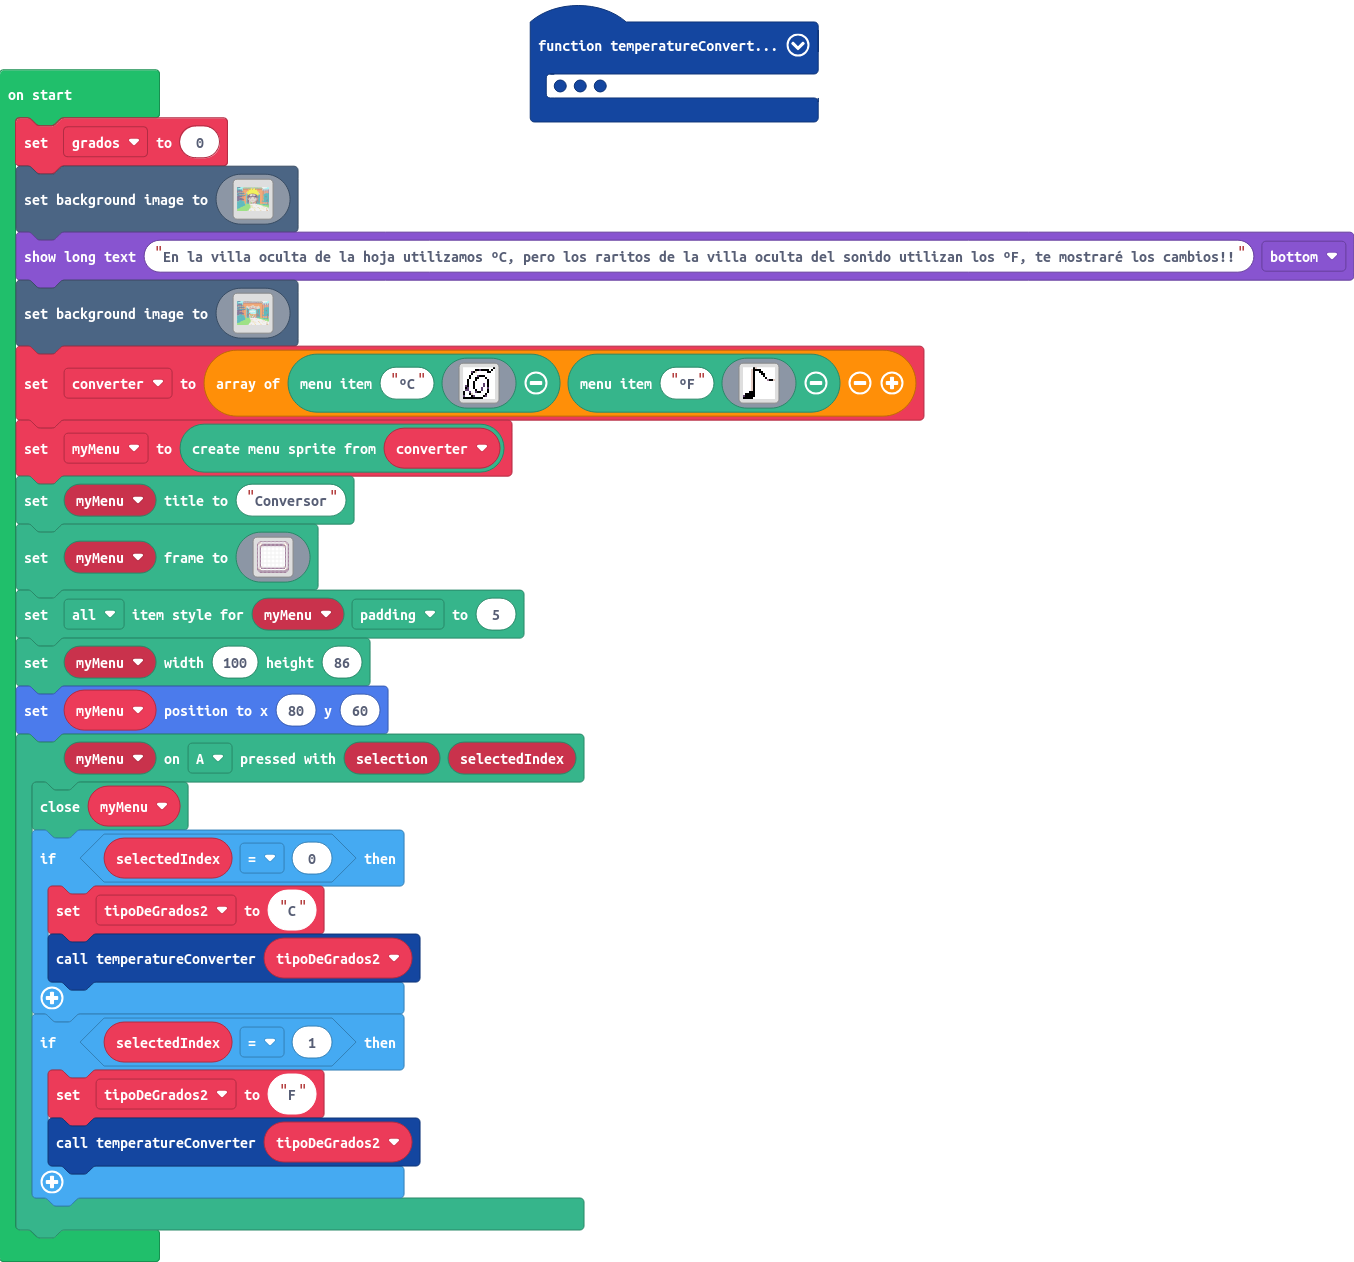
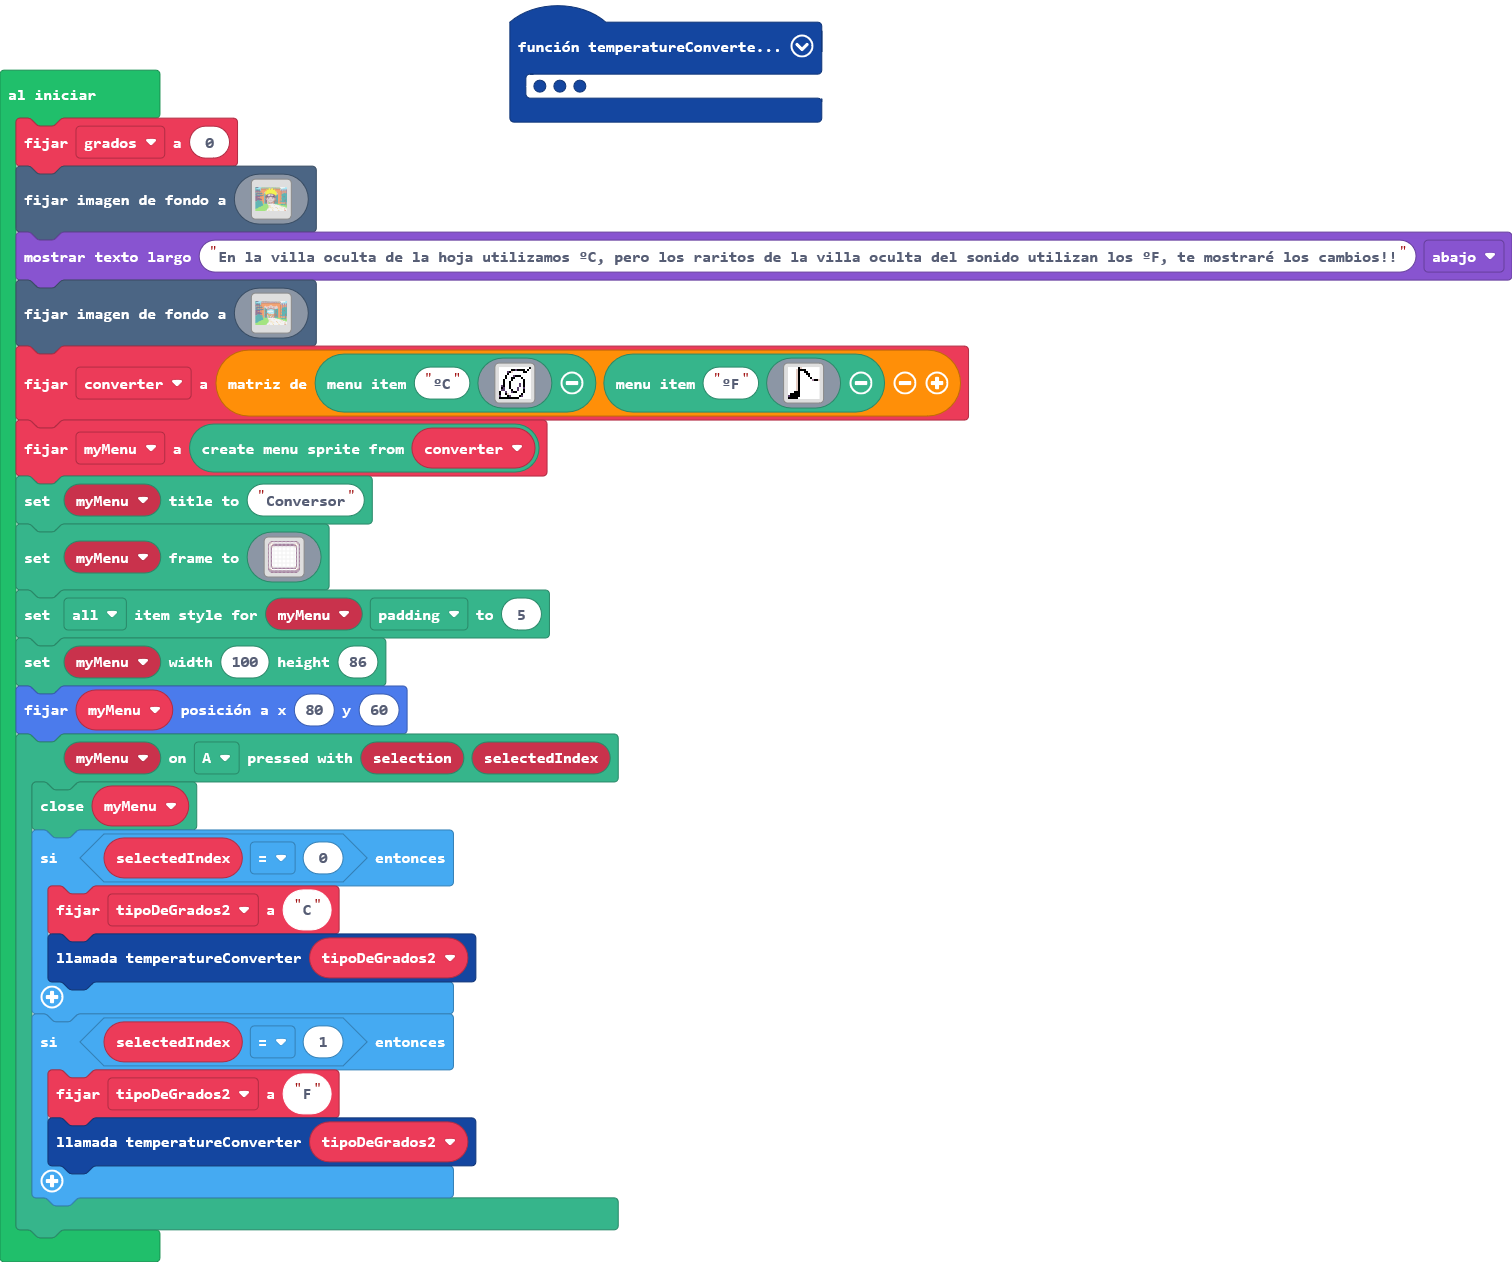
try try try

diff --git a/tilemap.g.ts b/tilemap.g.ts
@@ -1,4 +1,4 @@
-// Auto-generated code. Do not edit.
+// Código generado automáticamente. No editar.
 namespace myTiles {
     //% fixedInstance jres blockIdentity=images._tile
     export const transparency16 = image.ofBuffer(hex``);
@@ -11,4 +11,4 @@ namespace myTiles {
     })
 
 }
-// Auto-generated code. Do not edit.
+// Código generado automáticamente. No editar.

diff --git a/images.g.ts b/images.g.ts
@@ -1,4 +1,4 @@
-// Auto-generated code. Do not edit.
+// Código generado automáticamente. No editar.
 namespace myImages {
 
     helpers._registerFactory("image", function(name: string) {
@@ -60,4 +60,4 @@ f f f f f 1 1 1 1 1 1 1 1 1 1 1
     })
 
 }
-// Auto-generated code. Do not edit.
+// Código generado automáticamente. No editar.
